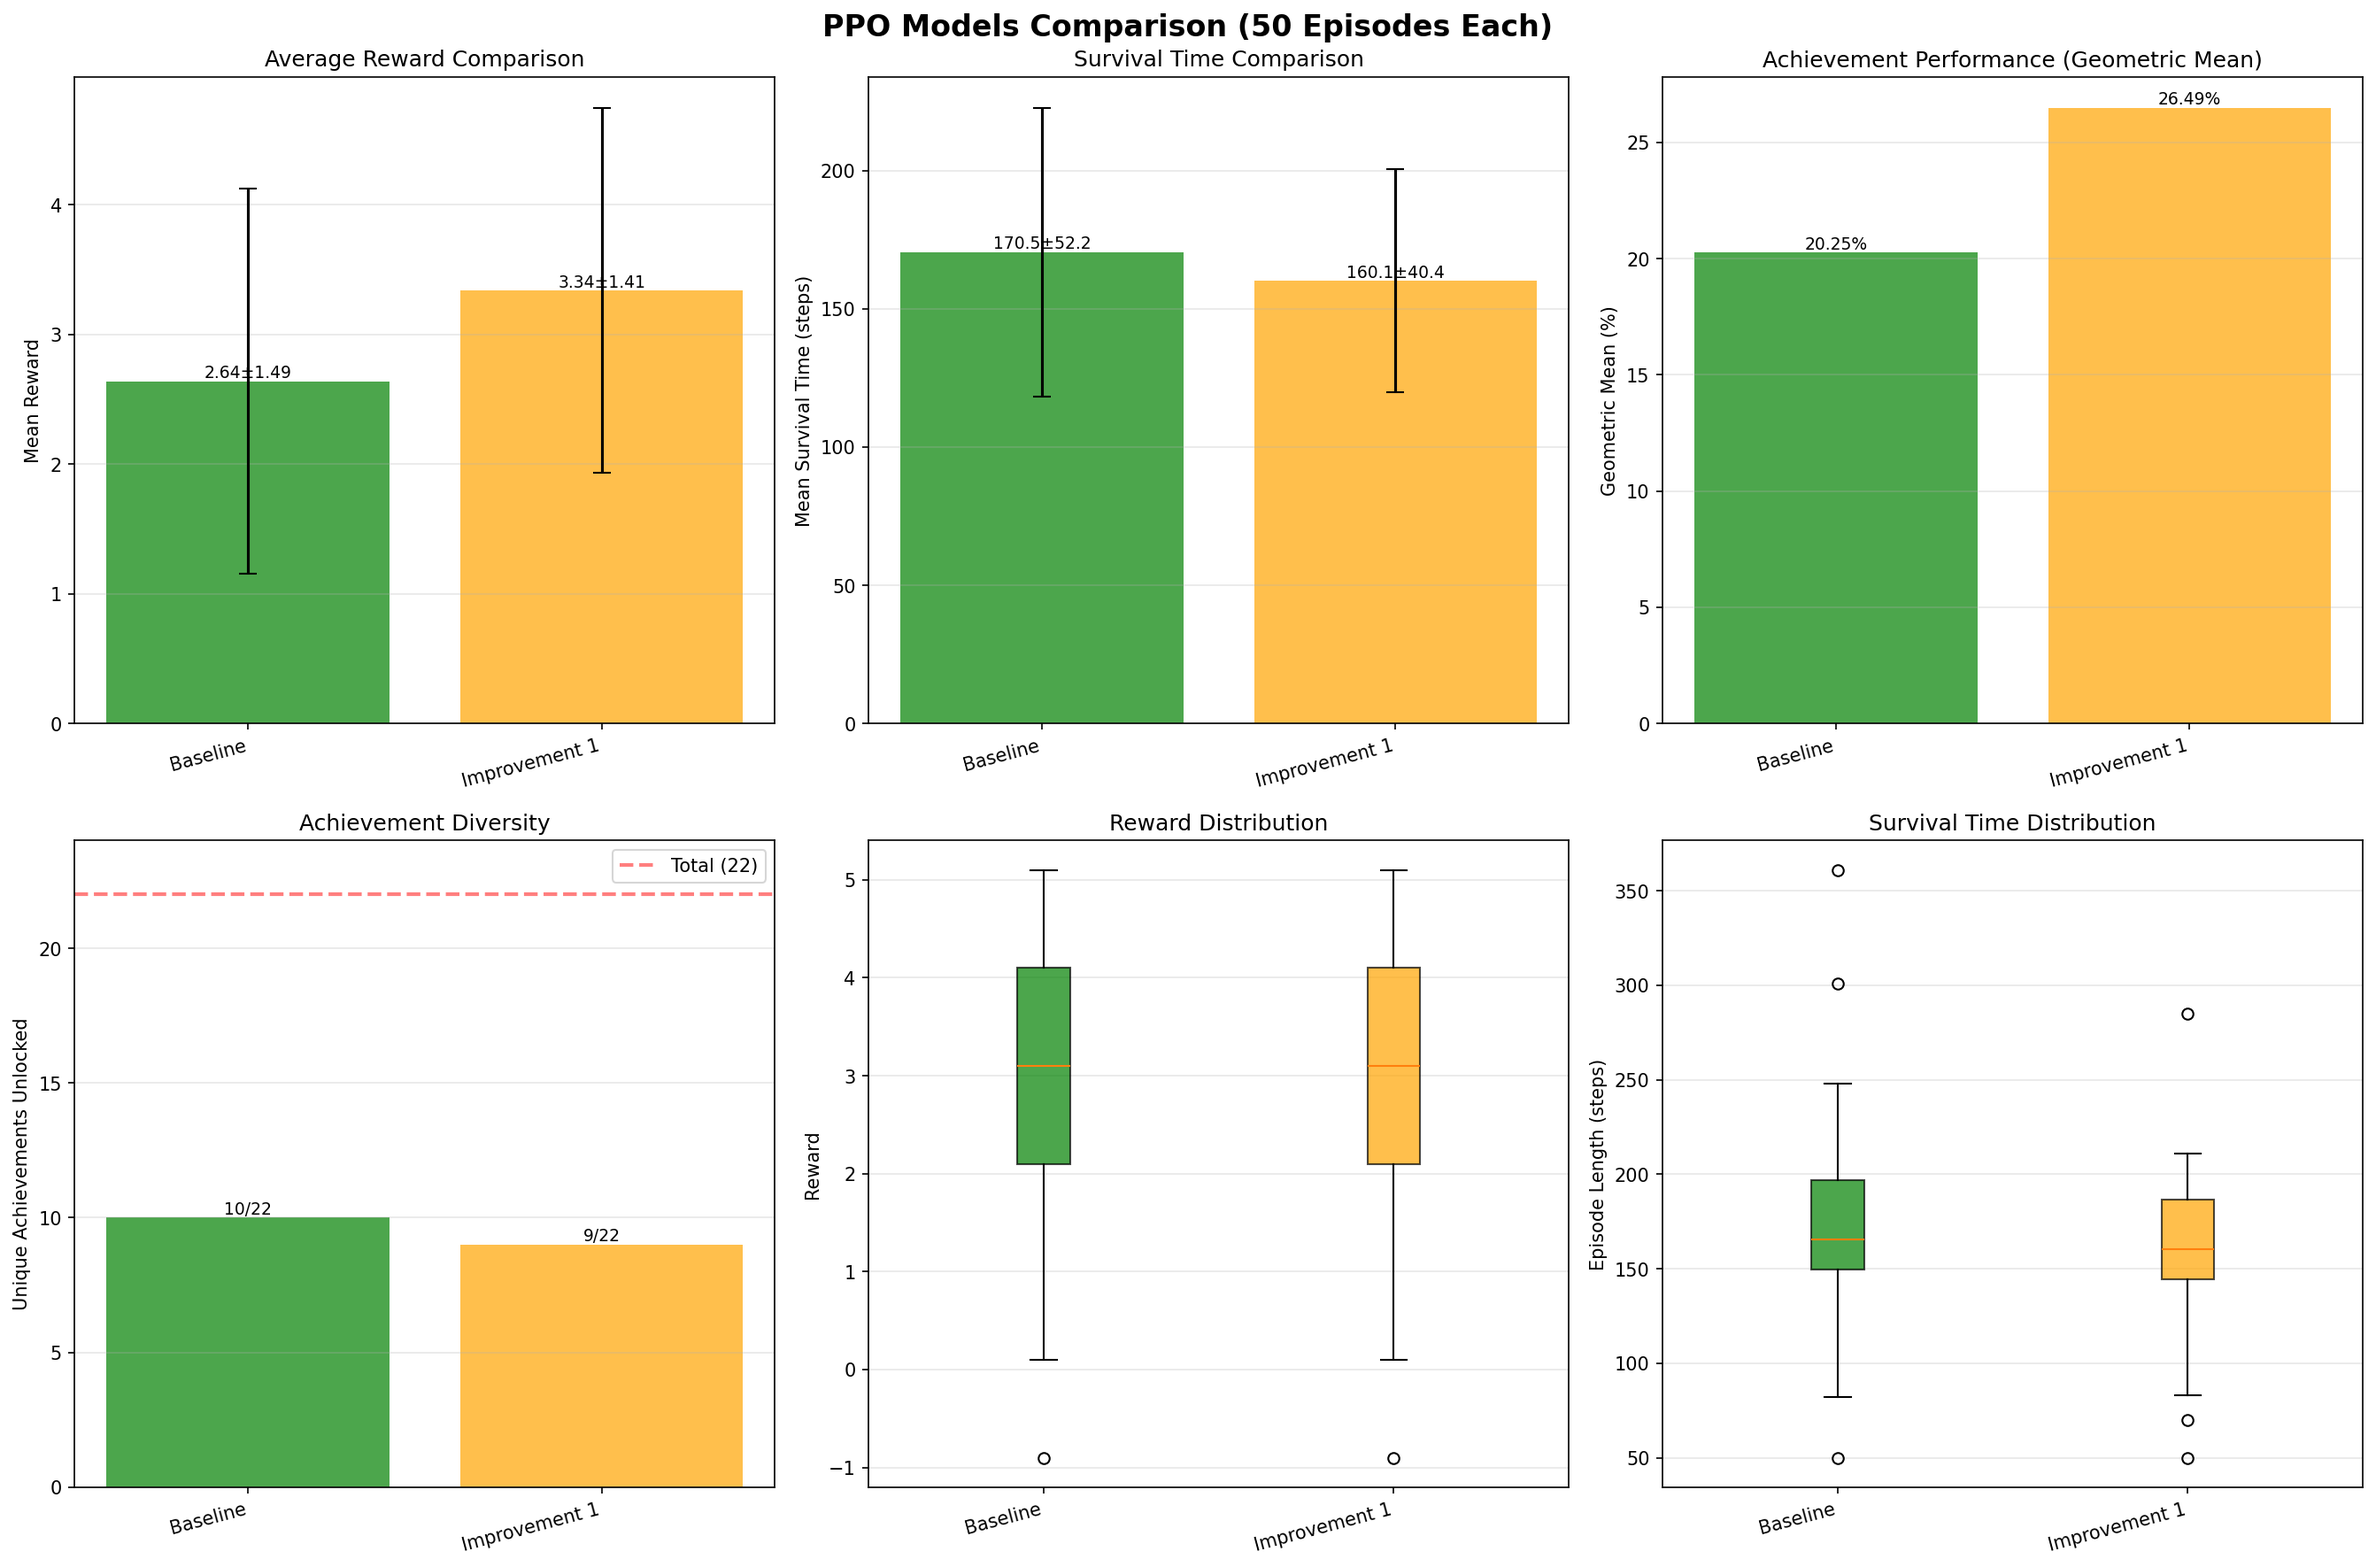
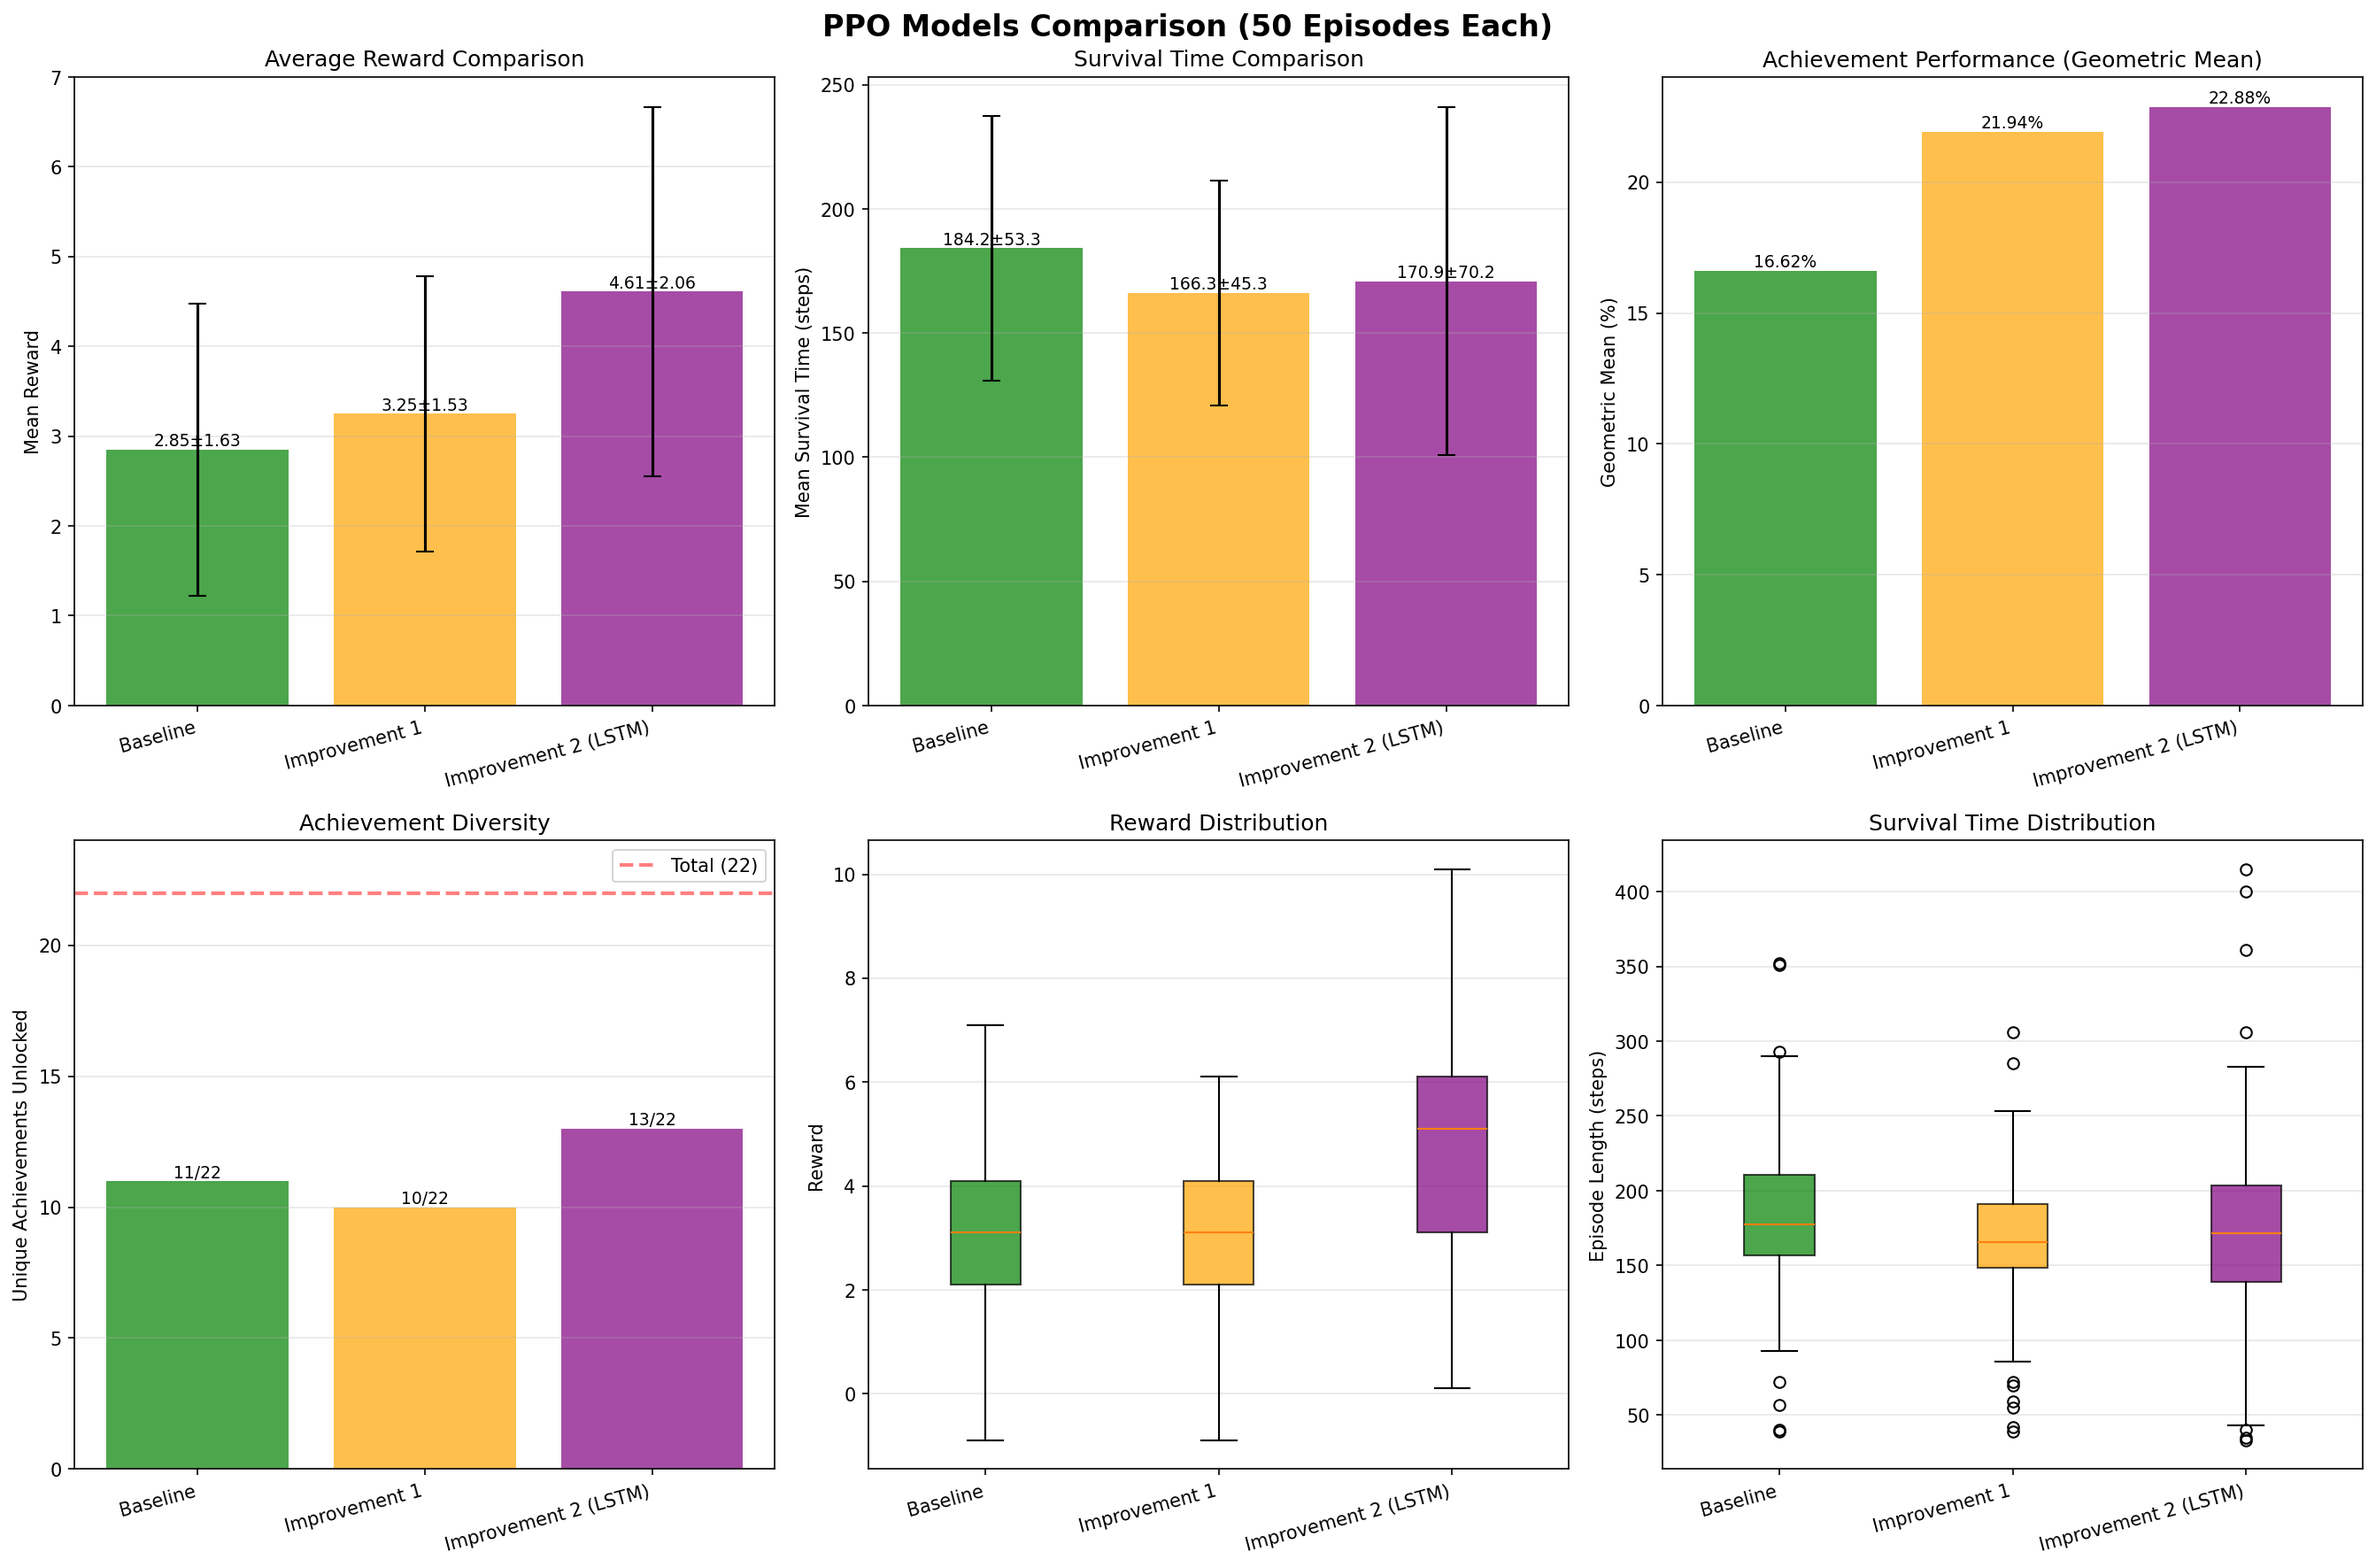
compare ppo including all agents

diff --git a/Reinforcement-Learning-Project-2026-Crafter/src/evaluation/Compare-PPO.py b/Reinforcement-Learning-Project-2026-Crafter/src/evaluation/Compare-PPO.py
@@ -1,8 +1,8 @@
 """
-Compare all three DQN models with consistent evaluation
+Compare all three PPO models with consistent evaluation
 
 Usage:
-    python compare_all_dqn_models.py
+    python Compare-PPO.py
 """
 
 import os
@@ -11,11 +11,63 @@ import numpy as np
 import json
 import matplotlib.pyplot as plt
 from collections import defaultdict
+import gymnasium as gym
+from gymnasium import spaces
 
 sys.path.append(os.path.dirname(os.path.dirname(os.path.abspath(__file__))))
 from utils.wrapper_ppo import make_crafter_env
 from stable_baselines3 import PPO
 from sb3_contrib import RecurrentPPO
+
+
+class AchievementTrackingWrapper(gym.ObservationWrapper):
+    """Wrapper for RecurrentPPO models that expect dict observations"""
+    
+    def __init__(self, env):
+        super().__init__(env)
+        self.achievement_names = [
+            'collect_coal', 'collect_diamond', 'collect_drink', 'collect_iron',
+            'collect_sapling', 'collect_stone', 'collect_wood', 'defeat_skeleton',
+            'defeat_zombie', 'eat_cow', 'eat_plant', 'make_iron_pickaxe',
+            'make_iron_sword', 'make_stone_pickaxe', 'make_stone_sword',
+            'make_wood_pickaxe', 'make_wood_sword', 'place_furnace', 'place_plant',
+            'place_stone', 'place_table', 'wake_up'
+        ]
+        self.num_achievements = len(self.achievement_names)
+        
+        # Store original observation space
+        original_obs_space = env.observation_space
+        
+        # Create dict observation space
+        self.observation_space = spaces.Dict({
+            'image': original_obs_space,
+            'achievements': spaces.Box(low=0, high=1, shape=(self.num_achievements,), dtype=np.float32)
+        })
+        
+        self.achievements = np.zeros(self.num_achievements, dtype=np.float32)
+    
+    def reset(self, **kwargs):
+        obs, info = self.env.reset(**kwargs)
+        self.achievements = np.zeros(self.num_achievements, dtype=np.float32)
+        return self.observation(obs), info
+    
+    def observation(self, obs):
+        """Convert image observation to dict with achievements"""
+        return {
+            'image': obs,
+            'achievements': self.achievements.copy()
+        }
+    
+    def step(self, action):
+        obs, reward, terminated, truncated, info = self.env.step(action)
+        
+        # Update achievements from info
+        if 'achievements' in info:
+            for i, name in enumerate(self.achievement_names):
+                if name in info['achievements'] and info['achievements'][name]:
+                    self.achievements[i] = 1.0
+        
+        return self.observation(obs), reward, terminated, truncated, info
 
 
 def calculate_geometric_mean(achievement_rates):
@@ -28,20 +80,32 @@ def calculate_geometric_mean(achievement_rates):
     return np.exp(np.mean(np.log([rate + 1e-10 for rate in rates]))) * 100
 
 
-def evaluate_model(model_path, env_config, n_episodes=50, model_name="Model"):
+def evaluate_model(model_path, env_config, n_episodes=50, model_name="Model", is_recurrent=False):
     """Evaluate a single model"""
     
     print(f"\n{'='*70}")
     print(f"Loading: {model_name}")
     print(f"{'='*70}")
     
-    # Load model first to get its observation space
-    model = PPO.load(model_path)
+    # Create base environment with correct preprocessing
+    base_env = make_crafter_env(**env_config)
     
-    # Create env that matches the model's observation space
-    env = make_crafter_env(**env_config)
+    # Load model based on type
+    if is_recurrent:
+        model = RecurrentPPO.load(model_path)
+        # RecurrentPPO needs dict observations with achievements
+        env = AchievementTrackingWrapper(base_env)
+        print(f"  Loaded RecurrentPPO model with AchievementTrackingWrapper")
+    else:
+        model = PPO.load(model_path)
+        # Regular PPO uses the base environment directly
+        env = base_env
+        print(f"  Loaded PPO model")
     
-    # Set the loaded model's environment
+    print(f"  Model expects: {model.observation_space}")
+    print(f"  Environment provides: {env.observation_space}")
+    
+    # Set the environment
     model.set_env(env)
     
     print(f"\n{'='*70}")
@@ -59,8 +123,18 @@ def evaluate_model(model_path, env_config, n_episodes=50, model_name="Model"):
         episode_length = 0
         episode_achievements = set()
         
+        # Initialize LSTM state for recurrent models
+        if is_recurrent:
+            state = None
+            episode_start = True
+        
         while not done:
-            action, _ = model.predict(obs, deterministic=True)
+            if is_recurrent:
+                action, state = model.predict(obs, state=state, episode_start=episode_start, deterministic=True)
+                episode_start = False
+            else:
+                action, _ = model.predict(obs, deterministic=True)
+            
             obs, reward, terminated, truncated, info = env.step(action)
             done = terminated or truncated
             episode_reward += reward
@@ -116,7 +190,7 @@ def plot_comparison(all_metrics, save_path='../../results/PPO/results/comparison
     fig.suptitle('PPO Models Comparison (50 Episodes Each)', fontsize=16, fontweight='bold')
     
     models = list(all_metrics.keys())
-    colors = ['green', 'orange', 'purple']
+    colors = ['green', 'orange', 'purple', 'blue', 'red'][:len(models)]
     
     # 1. Mean Rewards Comparison
     ax = axes[0, 0]
@@ -189,7 +263,7 @@ def plot_comparison(all_metrics, save_path='../../results/PPO/results/comparison
                 f'{ach}/22',
                 ha='center', va='bottom', fontsize=9)
     
-    # 5. Reward Distribution (Box Plot) - Fixed parameter name
+    # 5. Reward Distribution (Box Plot)
     ax = axes[1, 1]
     reward_data = [all_metrics[m]['all_rewards'] for m in models]
     bp = ax.boxplot(reward_data, tick_labels=models, patch_artist=True)
@@ -201,7 +275,7 @@ def plot_comparison(all_metrics, save_path='../../results/PPO/results/comparison
     ax.grid(True, alpha=0.3, axis='y')
     plt.setp(ax.xaxis.get_majorticklabels(), rotation=15, ha='right')
     
-    # 6. Episode Length Distribution (Box Plot) - Fixed parameter name
+    # 6. Episode Length Distribution (Box Plot)
     ax = axes[1, 2]
     length_data = [all_metrics[m]['all_lengths'] for m in models]
     bp = ax.boxplot(length_data, tick_labels=models, patch_artist=True)
@@ -270,7 +344,7 @@ def main():
     """Main comparison function"""
     
     print("\n" + "="*70)
-    print("COMPARING 3 MODELS OVER 50 EPISODES")
+    print("COMPARING 3 PPO MODELS OVER 50 EPISODES")
     print("="*70)
     
     # Define models to compare
@@ -280,21 +354,24 @@ def main():
             'env_config': {
                 'seed': 142,  # Different seed for fair evaluation
                 'preprocess_type': 'none'
-            }
+            },
+            'is_recurrent': False
         },
         'Improvement 1': {
             'path': '../../results/PPO/models/ppo_improv_1/ppo_rnd_model.zip',
             'env_config': {
                 'seed': 142,
                 'preprocess_type': 'none'
-            }
+            },
+            'is_recurrent': False
         },
-        'Improvement 2': {
+        'Improvement 2 (LSTM)': {
             'path': '../../results/PPO/models/ppo_improv_2/recurrent_ppo_model.zip',
             'env_config': {
                 'seed': 142,
                 'preprocess_type': 'none'
-            }
+            },
+            'is_recurrent': True
         }
     }
     
@@ -311,8 +388,9 @@ def main():
             metrics = evaluate_model(
                 config['path'],
                 config['env_config'],
-                n_episodes=50,
-                model_name=model_name
+                n_episodes=100,
+                model_name=model_name,
+                is_recurrent=config.get('is_recurrent', False)
             )
             all_metrics[model_name] = metrics
         except Exception as e:
@@ -359,7 +437,7 @@ def main():
     print("="*70)
     print(f"\n📁 Output files:")
     print(f"  • Plots: ../../results/PPO/results/final_comparison.png")
-    print(f"  • Data:  results/final_comparison_results.json")
+    print(f"  • Data:  ../../results/PPO/results/final_comparison_results.json")
     print("="*70 + "\n")
 
 
